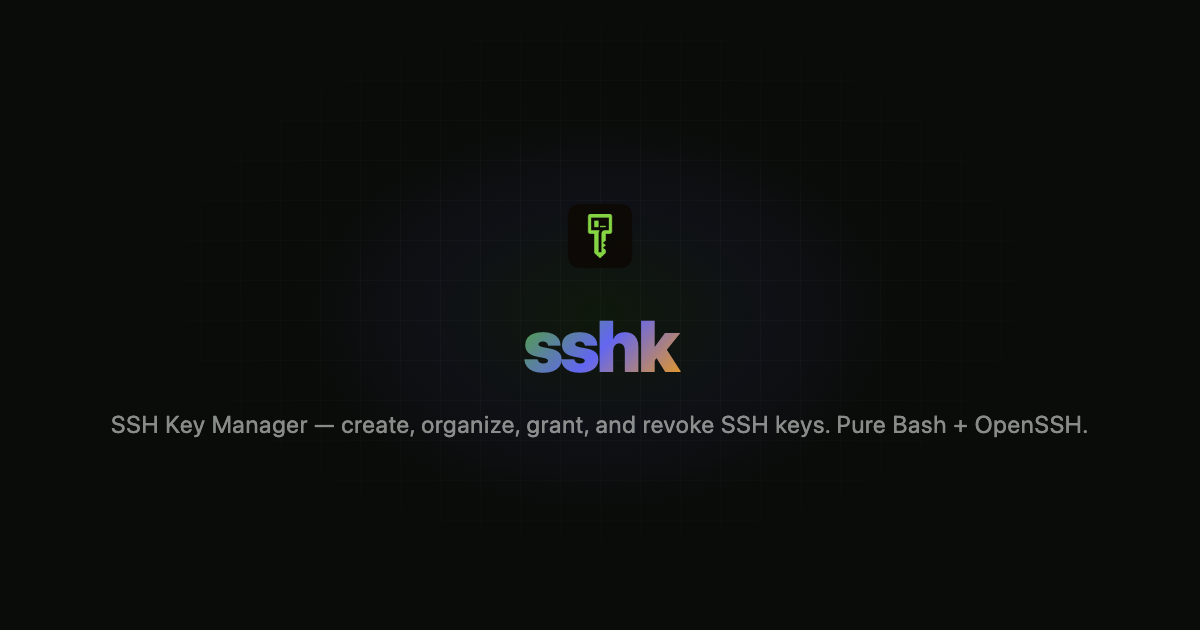
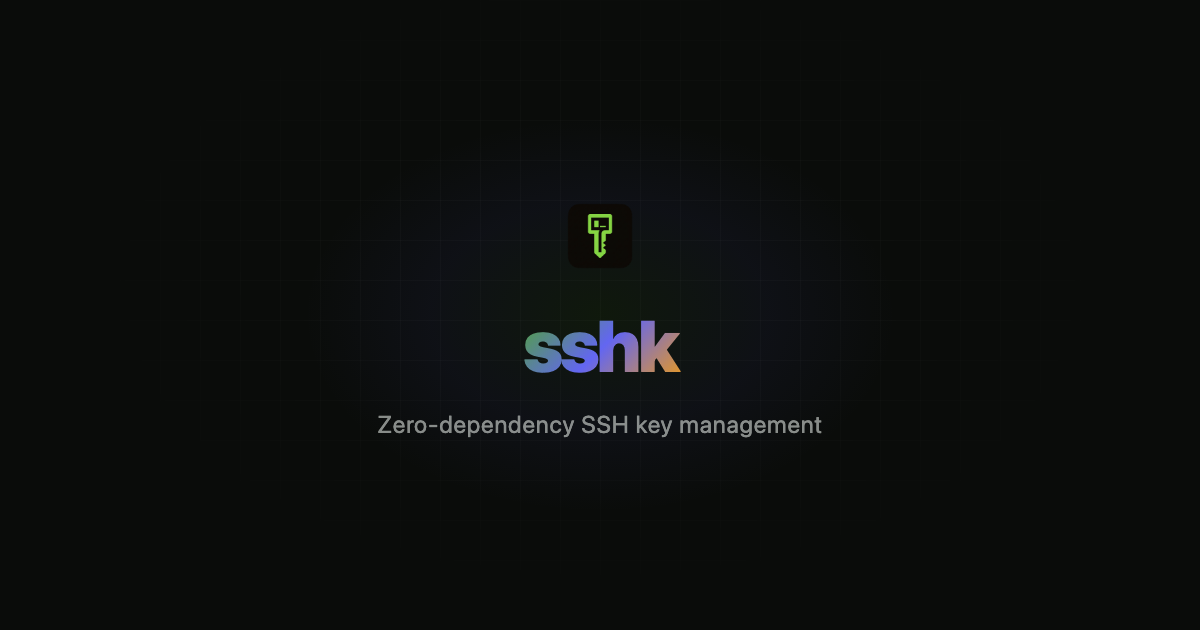
docs: shorten tagline on landing page and OG image

Changed region(s): [[0.0925, 0.6635, 0.925, 0.6937]]

diff --git a/docs/index.html b/docs/index.html
@@ -281,7 +281,7 @@ a:active, button:active { transform: scale(0.97); transition: transform 0.1s eas
         </h1>
 
         <p class="text-muted text-base md:text-lg max-w-xl leading-relaxed mb-10 mx-auto lg:mx-0 font-medium">
-          SSH Key Manager — create, organize, grant, and revoke SSH keys. Pure Bash + OpenSSH.
+          Zero-dependency SSH key management
         </p>
 
         <div class="flex flex-col sm:flex-row gap-4 mb-12 lg:justify-start justify-center">
